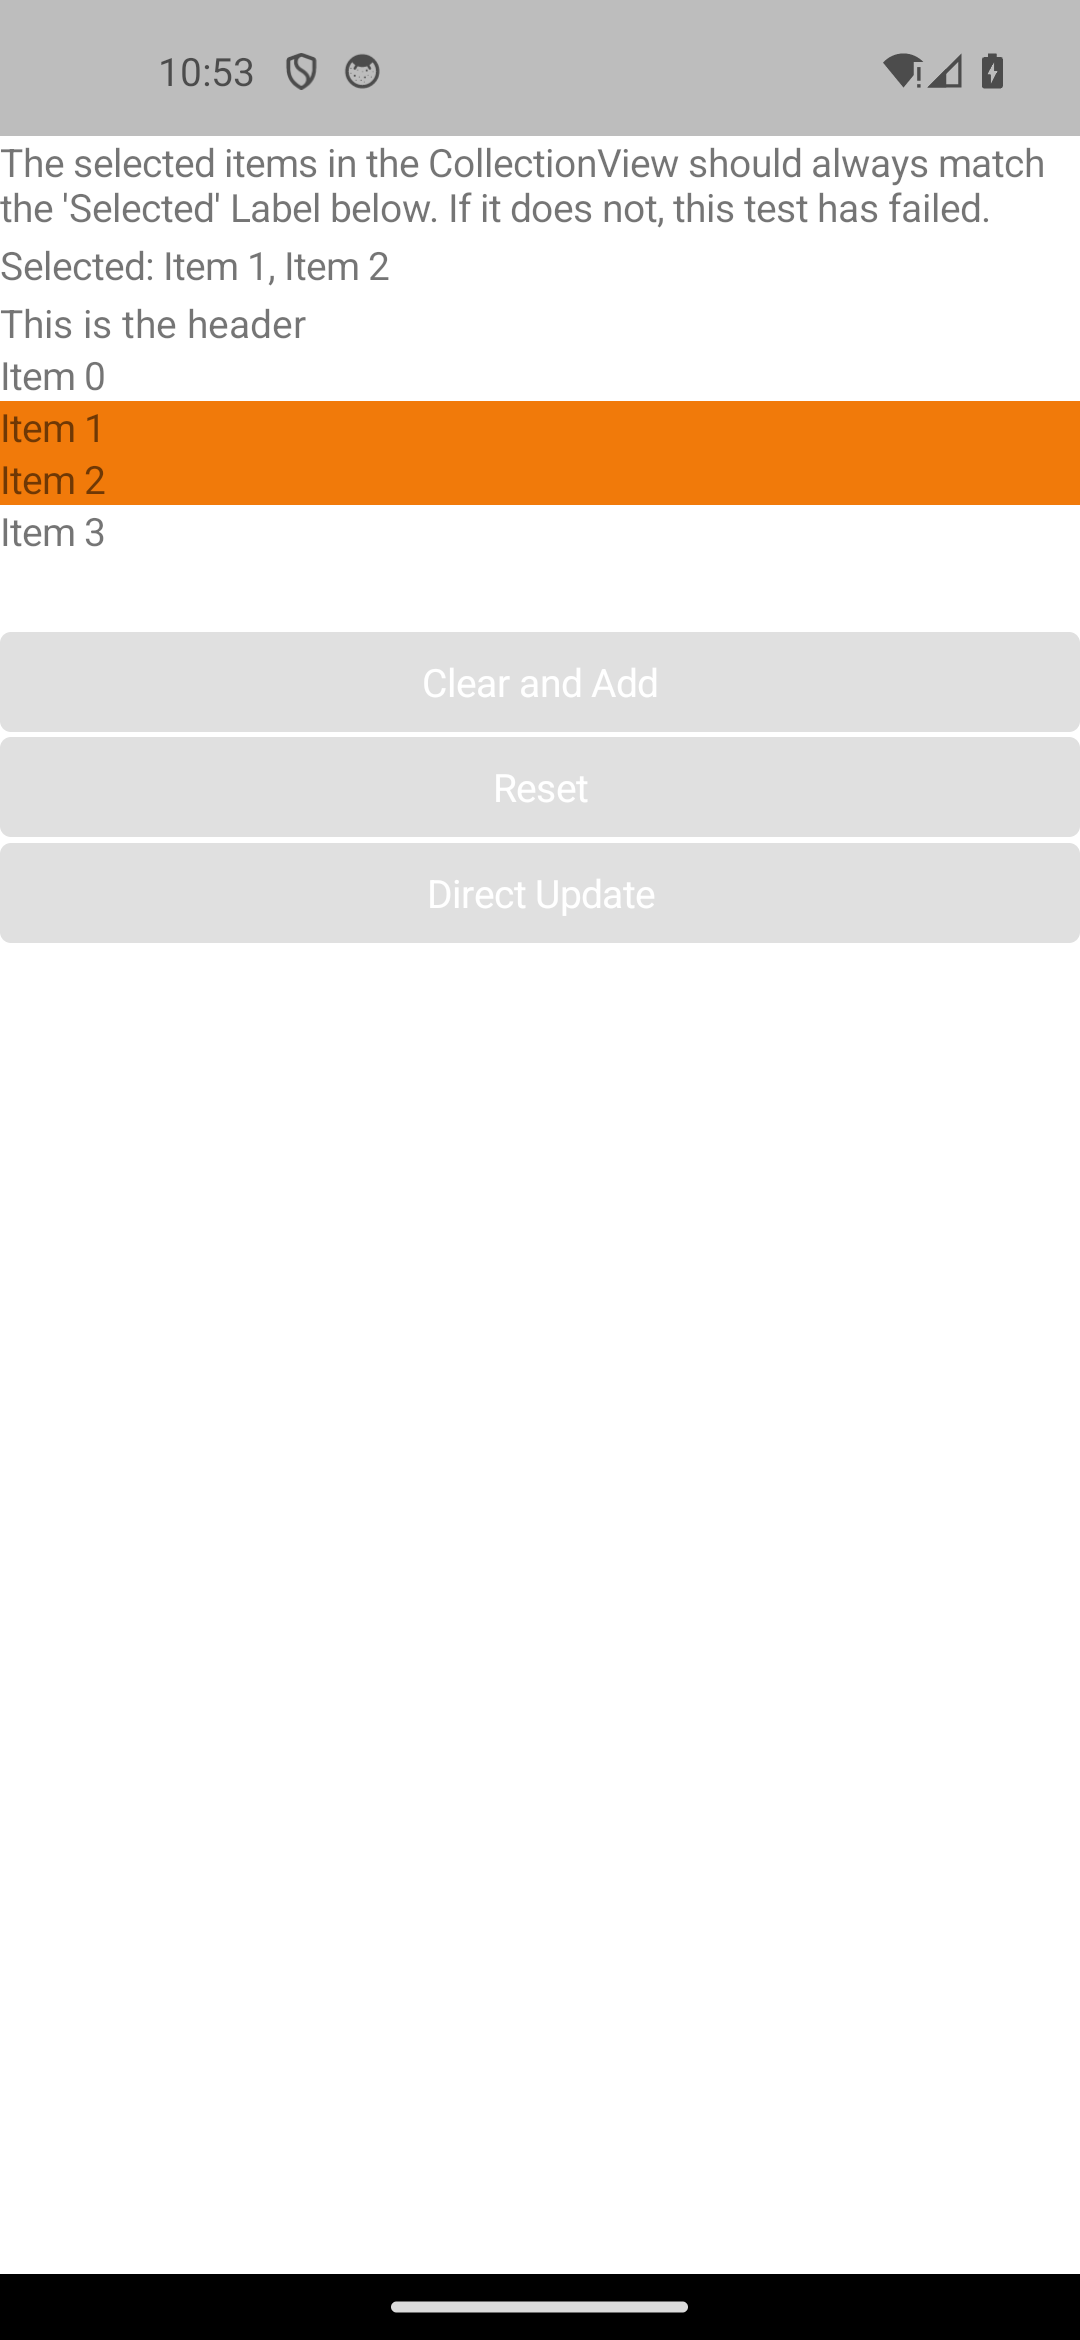
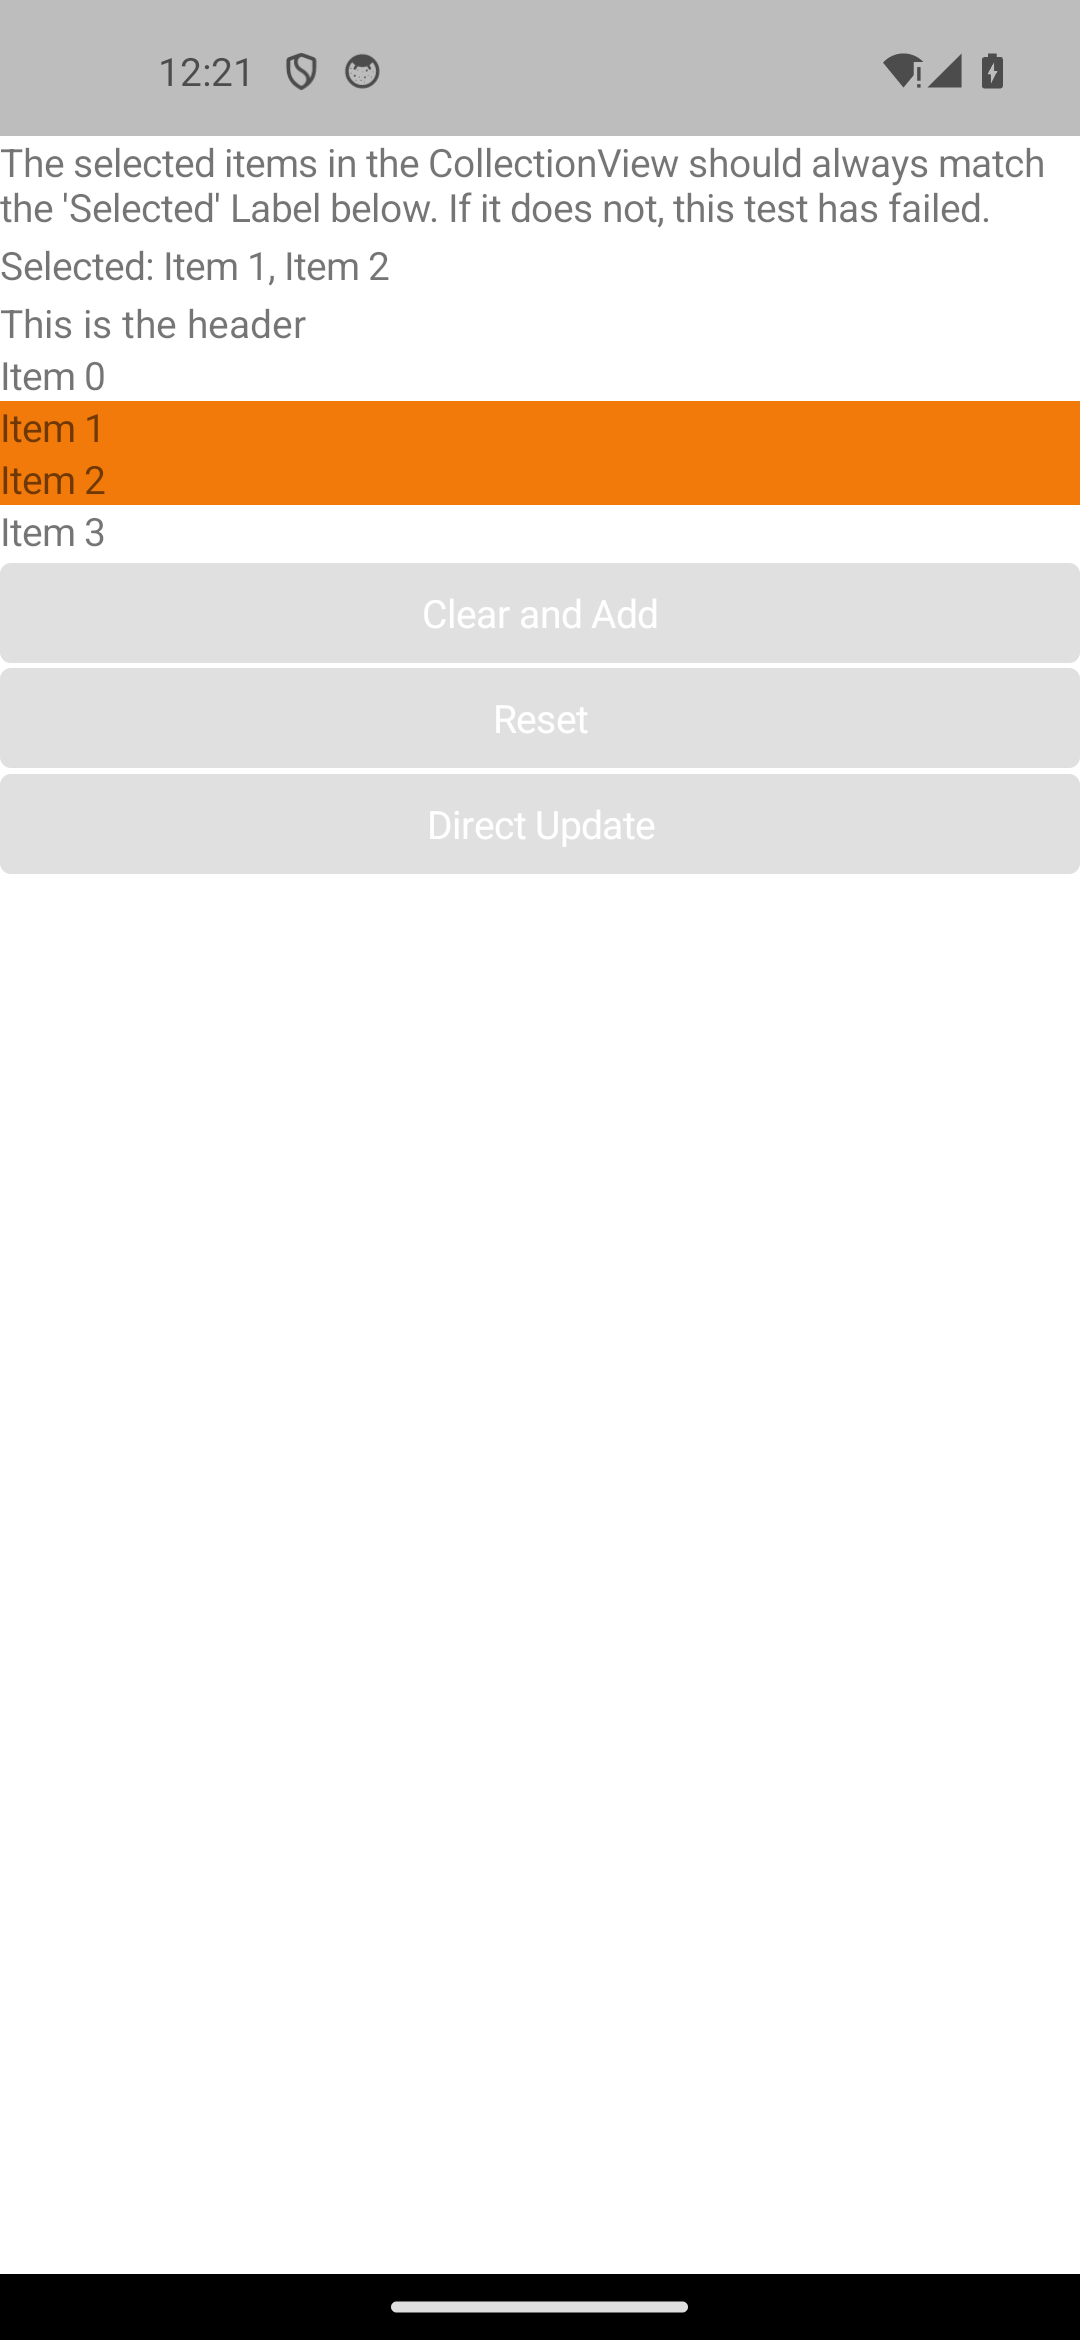
test(android/parity): xaml multiple_bound_selection GREEN (clean recapture confirms the seed fix)
The CV measure seed=0 fix (30b57f0086) greens the XAML column's multiple_bound_selection too
— not just cpp. The prior 'xaml stays yellow (dark 0.9002)' reading was a STALE BATCH-CAPTURE
artifact (the same one that faked cpp's dark): instrumenting the xaml apphost's measure/arrange
proved the loader-built CV renders byte-identically to cpp (header 53px, item 52px, frame
y=58.2 h=94.9, all arrange rows 52px), and re-shooting mbs alone (light then dark, clean per-theme
build) scores SSIM 1.0000/0.00% both themes. Recaptured the xaml column and committed the two
updated mbs captures. Board: xaml 145->146 green / 24 yellow / 2 red (cpp already 146g at 30b57f0086).

LESSON reinforced: a single page scoring a clean ~7% off inside a 41-page batch recapture is almost
always a batch-timing/night-mode glitch — re-shoot it ALONE before believing it.

Changed region(s): [[0.0, 0.2184, 1.0, 0.4056]]

diff --git a/port/cpp/docs/comparison/README.md b/port/cpp/docs/comparison/README.md
@@ -5205,8 +5205,8 @@ Real .NET MAUI vs the C++ port vs the compile-time-XAML gallery, captured on the
 
 | Classification | Pixel-Perfect Score — C++ (C1/C3) | Pixel-Perfect Score — C++ &amp; XAML (C2/C4) |
 | --- | --- | --- |
-| 🟢 Match | 146 | 145 |
-| 🟡 Minor | 24 | 25 |
+| 🟢 Match | 146 | 146 |
+| 🟡 Minor | 24 | 24 |
 | 🔴 Major | 2 | 2 |
 | ⬛ Blank | 0 | 0 |
 | ⏳ Unreviewed | 0 | 0 |
@@ -6801,7 +6801,7 @@ Light: SSIM 1.0000, 0.00% pixels differ · Dark: SSIM 1.0000, 0.00% pixels diffe
 
 Light: SSIM 1.0000, 0.00% pixels differ · Dark: SSIM 1.0000, 0.00% pixels differ
 
-### 107. Multiple Bound Selection — 🟢/🟡
+### 107. Multiple Bound Selection — 🟢/🟢
 <sub>multiple_bound_selection</sub>
 
 <table><tr><th></th><th>MAUI</th><th>C++</th><th>C++ &amp; XAML</th></tr><tr><th>Light</th><td><img width="300px" src="captures/android/maui/multiple_bound_selection_light.png" /></td><td><img width="300px" src="captures/android/cpp/multiple_bound_selection_light.png" /></td><td><img width="300px" src="captures/android/xaml/multiple_bound_selection_light.png" /></td></tr><tr><th>Dark</th><td><img width="300px" src="captures/android/maui/multiple_bound_selection_dark.png" /></td><td><img width="300px" src="captures/android/cpp/multiple_bound_selection_dark.png" /></td><td><img width="300px" src="captures/android/xaml/multiple_bound_selection_dark.png" /></td></tr></table>
@@ -6812,9 +6812,9 @@ ports MultipleBoundSelection.xaml (+ .xaml.cs) (Maui.Controls.Sample.Pages.Colle
 
 Light: SSIM 1.0000, 0.00% pixels differ · Dark: SSIM 0.9999, 0.00% pixels differ
 
-#### 🟡 Pixel-Perfect Score — C++ &amp; XAML (C2/C4)
+#### 🟢 Pixel-Perfect Score — C++ &amp; XAML (C2/C4)
 
-Light: SSIM 0.9556, 7.26% pixels differ · Dark: SSIM 0.9002, 7.44% pixels differ
+Light: SSIM 1.0000, 0.00% pixels differ · Dark: SSIM 1.0000, 0.00% pixels differ
 
 ### 108. Navigation Gallery — 🟢/🟢
 <sub>navigation_gallery</sub>
